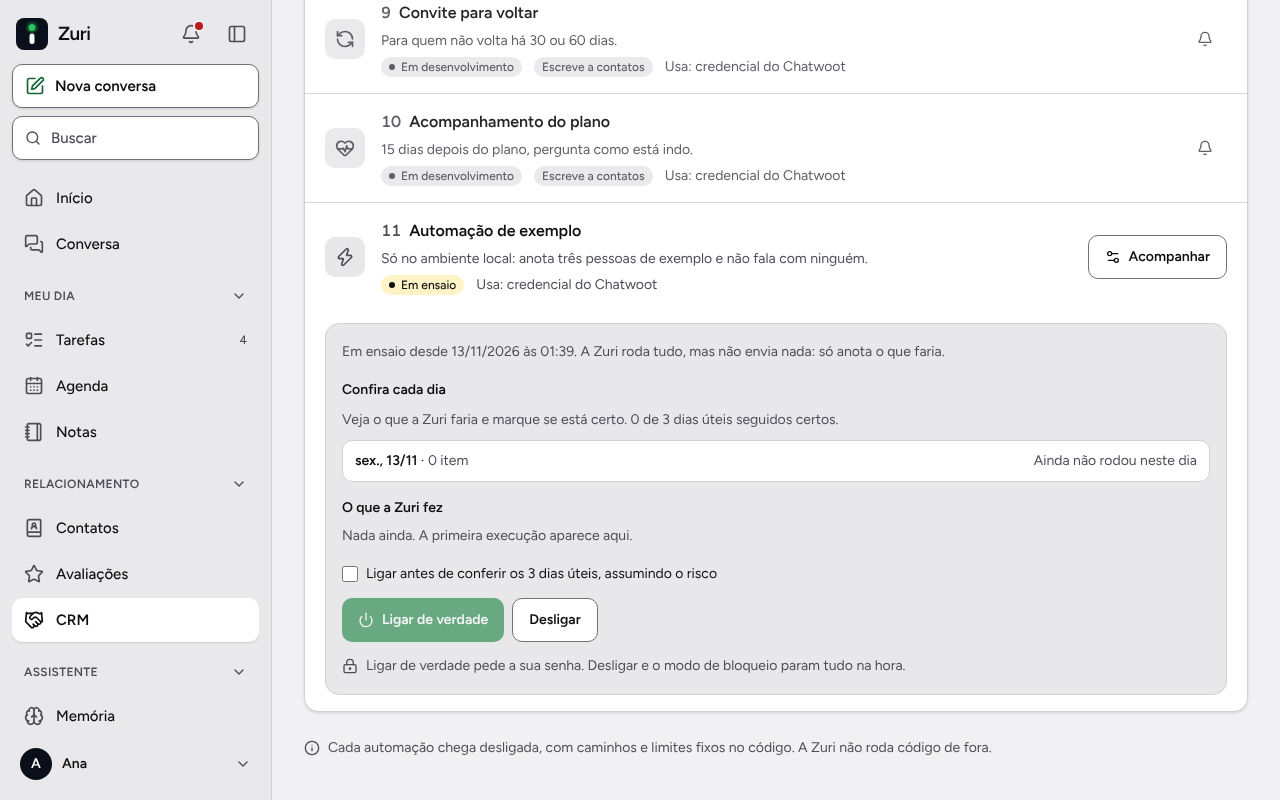
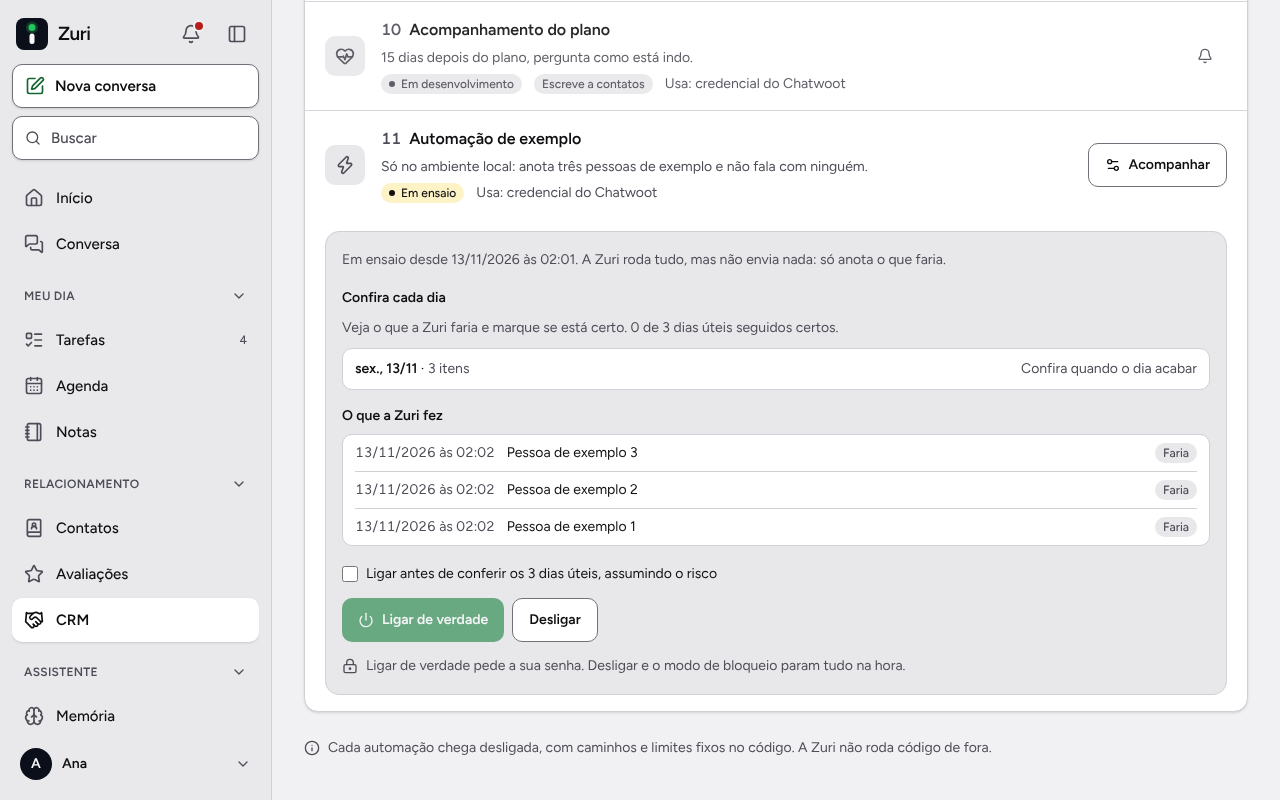
docs(crm): capturas finais das automações (S18)
Claude-Session: https://claude.ai/code/session_012XDDEd5ptWV6jpum7z64vP

diff --git a/scripts/capturas-da-interface.ts b/scripts/capturas-da-interface.ts
@@ -208,8 +208,8 @@ for (const [device, options] of [
           await page.request.put(`${BASE}/api/crm/automations/example/config`, { headers: CSRF, data: { connectionId: chatwoot.id, options: { perDay: 3 } } });
           await page.request.post(`${BASE}/api/crm/automations/example/mode`, { headers: CSRF, data: { mode: "rehearsal" } });
         }
-        // The first run comes on the alarm: wait for what it noted.
-        for (let n = 0; n < 40; n++) {
+        // The first run comes on the alarm (up to a minute or so): wait for what it noted.
+        for (let n = 0; n < 360; n++) {
           const activity = (await (await page.request.get(`${BASE}/api/crm/automations/example/activity`, { headers: CSRF })).json()) as { effects: unknown[] };
           if (activity.effects.length > 0) break;
           await page.waitForTimeout(250);
